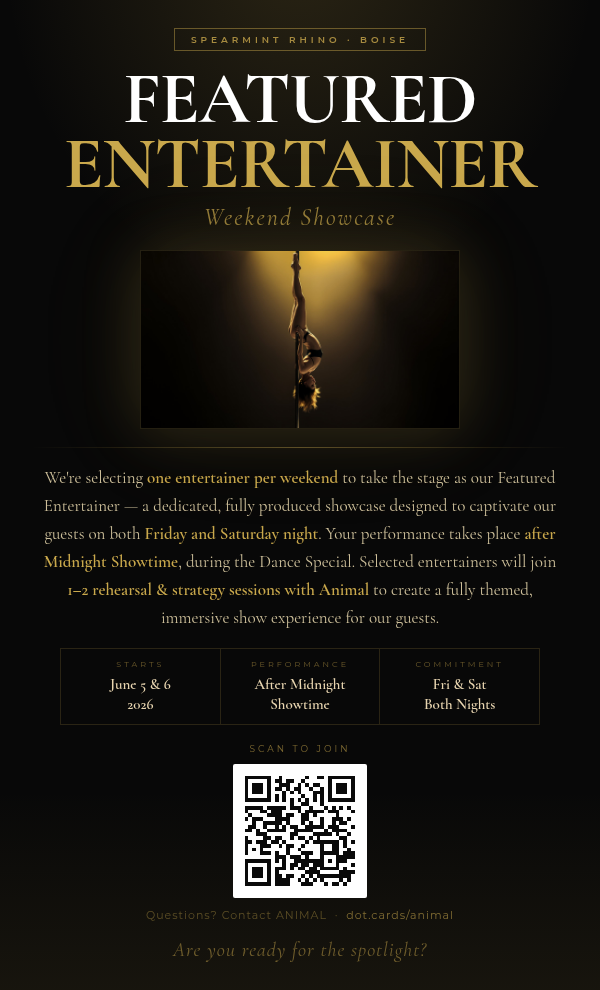
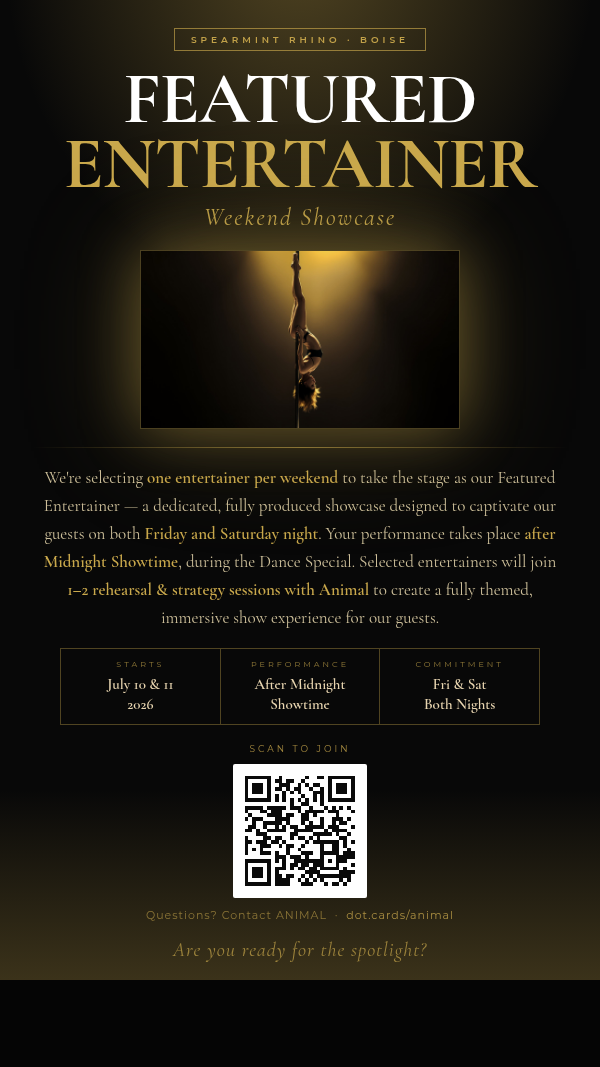
fix: update flyer to July 10 & 11, fix dancer image path

Changed region(s): [[0.0, 0.0, 1.0, 0.9697], [0.18, 0.6364, 0.27, 0.7273]]

diff --git a/flyer.html b/flyer.html
@@ -282,7 +282,7 @@
 
     <!-- Pole Dance Photo -->
     <div class="art-container">
-      <img src="/dancer.jpg" alt="Featured Entertainer" style="width:100%;border-radius:2px;display:block;filter:contrast(1.05) brightness(0.95);" />
+      <img src="dancer.jpg" alt="Featured Entertainer" style="width:100%;border-radius:2px;display:block;filter:contrast(1.05) brightness(0.95);" />
     </div>
 
     <div class="divider-line"></div>
